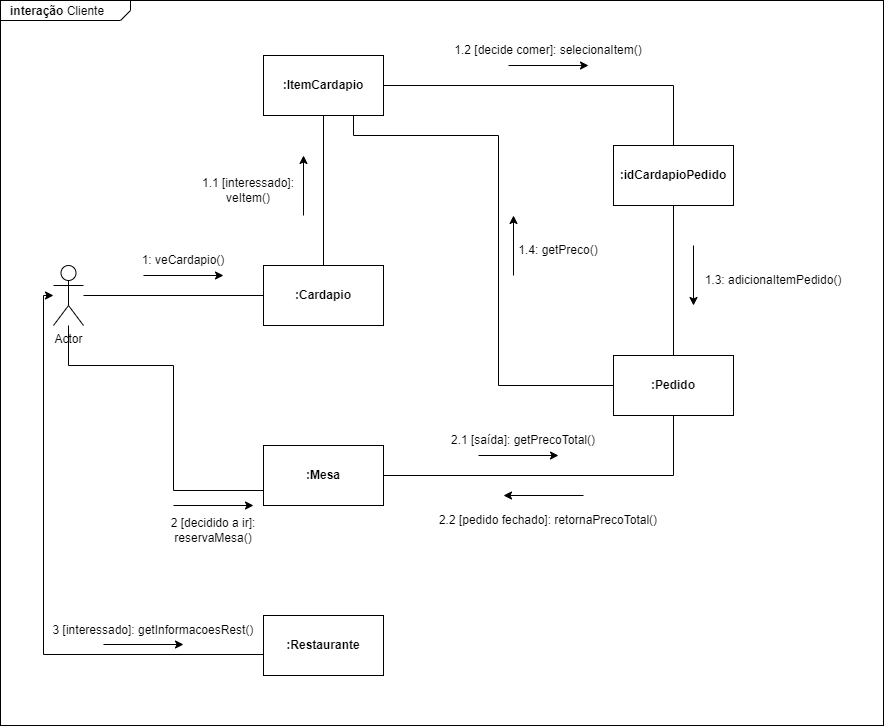
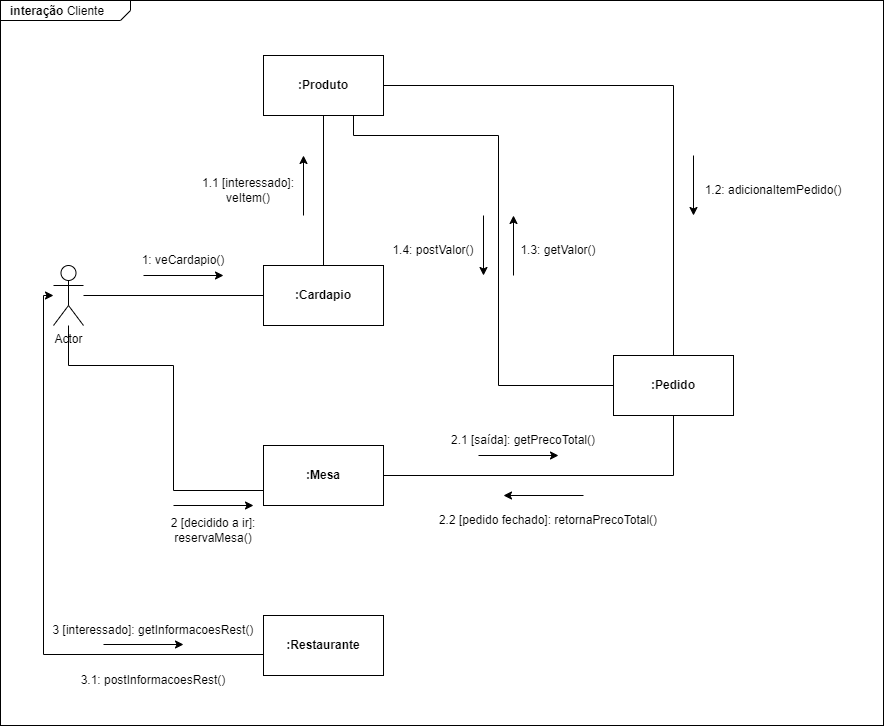
:pencil: mudança diagrama de cliente

diff --git a/docs/modelagem/dinamico/comunicacao.md b/docs/modelagem/dinamico/comunicacao.md
@@ -17,6 +17,8 @@ A partir do entendimento da diagramação e de seus elementos, foram desenvolvid
 * **Cliente**
 * **Funcionário**
 
+A ferramenta utilizada para a criação dos diagramas foi a **diagrams.net** (conectada com o Google Drive).
+
 ## Diagramas
 
 ### Cliente
@@ -35,6 +37,7 @@ A partir do entendimento da diagramação e de seus elementos, foram desenvolvid
 |  --------  |  ----  |            ----------          | --------------- |    -------    |
 | 29/11/2022 |  1.0.0 |  Criação do artefato de Diagrama de Comunicação | [Victor Leão](https://github.com/victorleaoo) | [Lucas Rodrigues](https://github.com/nickby2) |
 | 30/11/2022 |  1.1.0 |  Adição dos diagramas | [Victor Leão](https://github.com/victorleaoo) | [Lucas Rodrigues](https://github.com/nickby2) |
+| 02/12/2022 |  1.1.1 |  Mudança no Diagrama de Cliente retirando classe inexistente | [Victor Leão](https://github.com/victorleaoo) | [Lucas Rodrigues](https://github.com/nickby2) |
 
 ## Referências
 
